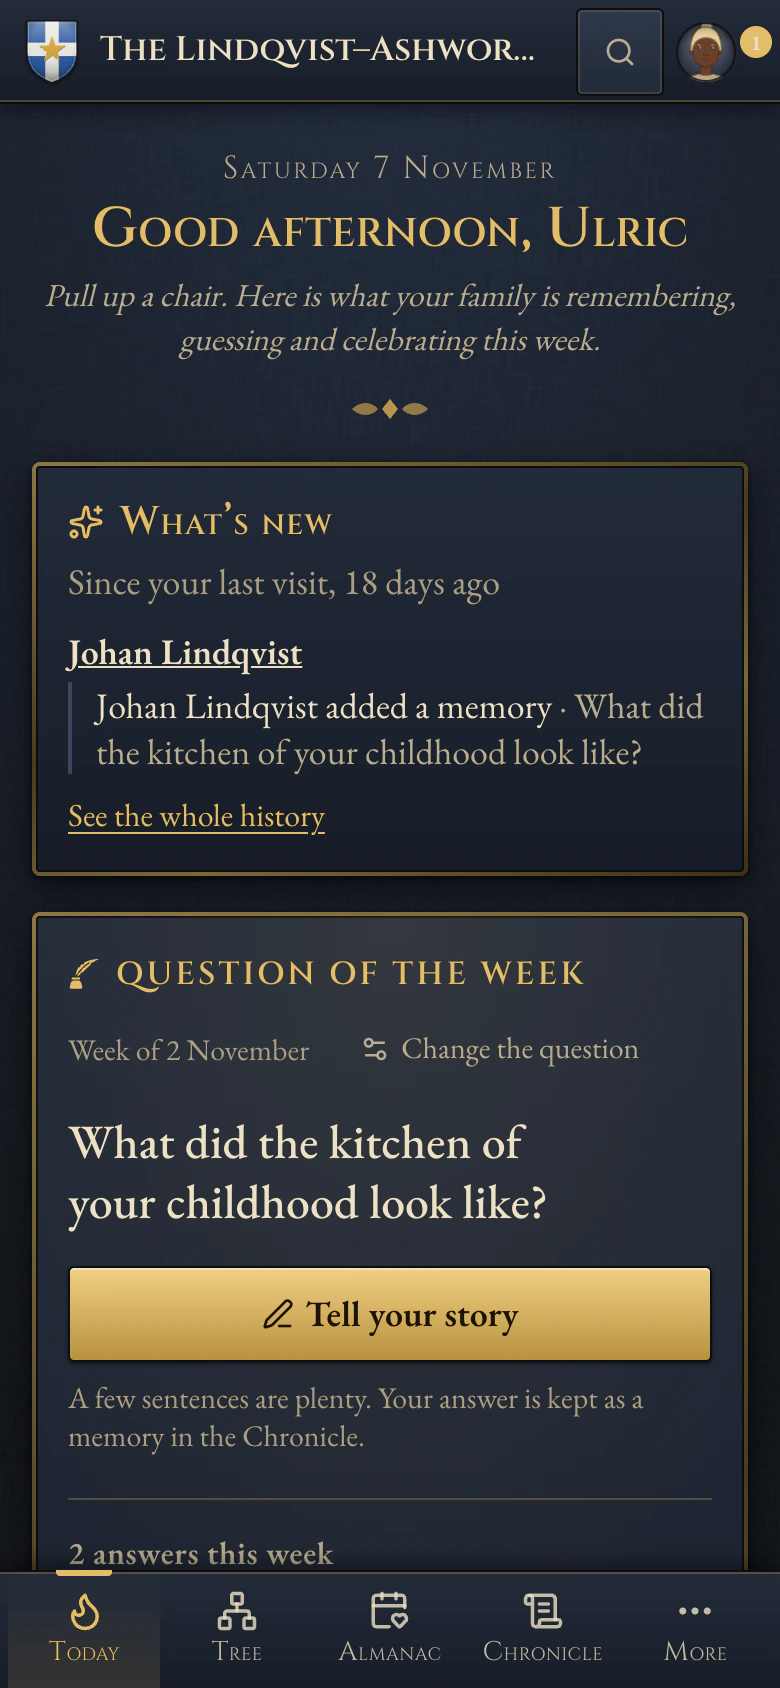
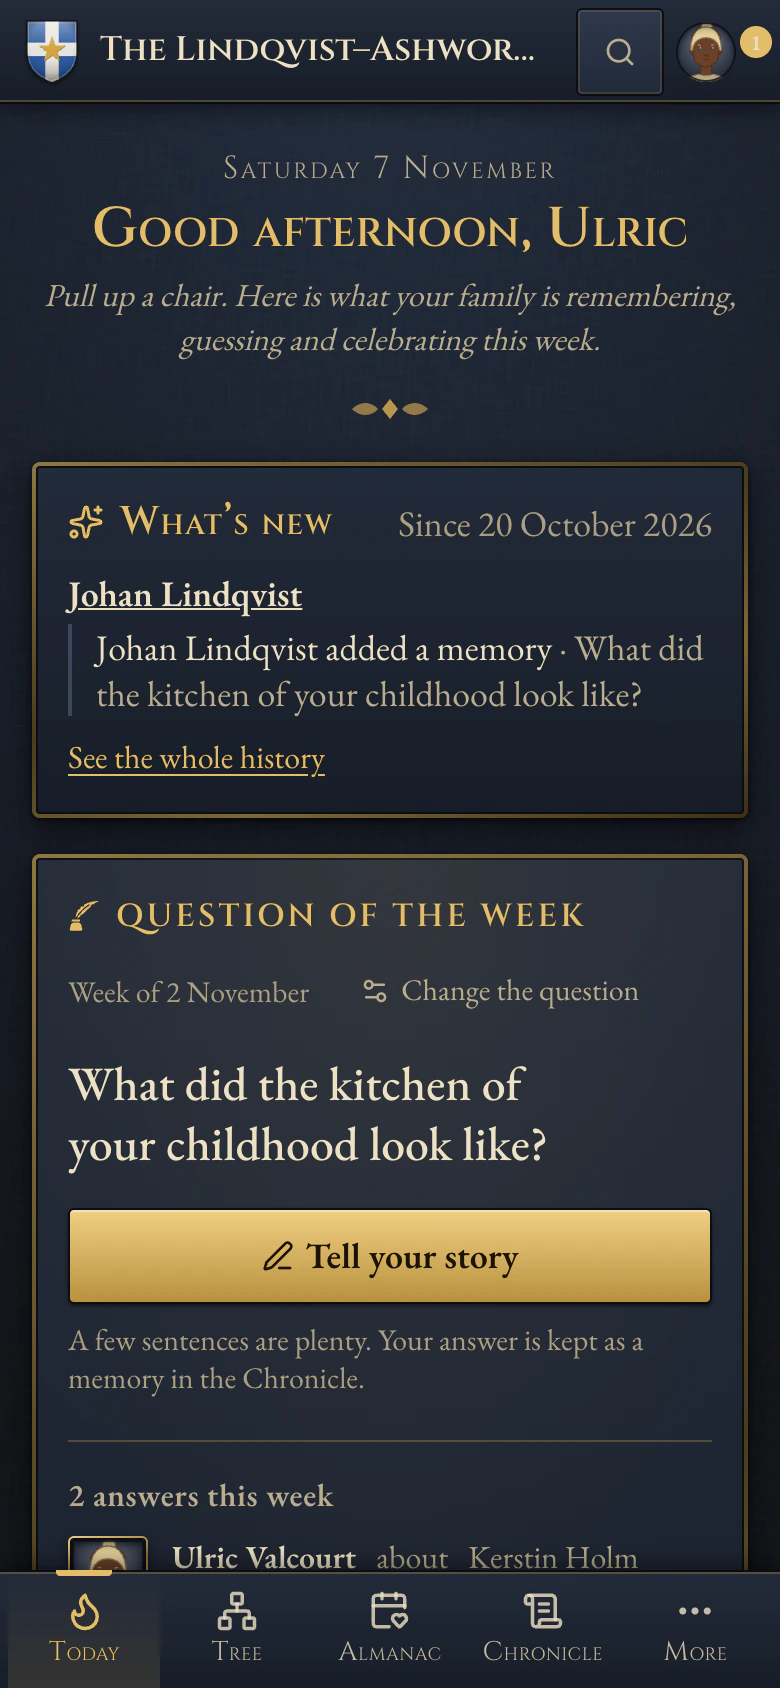
fix(history): What's new says the day its news starts on
"Since your last visit, 18 days ago" was wrong for a reader who had come by without being shown the news: the news then still starts where it did. The date is true in every case. README pictures of Today retaken.

Changed region(s): [[0.0308, 0.3081, 0.9846, 0.955], [0.7077, 0.3081, 0.8, 0.3389], [0.8308, 0.3081, 0.8923, 0.3389]]

diff --git a/src/lib/i18n/areas/history.ts b/src/lib/i18n/areas/history.ts
@@ -41,7 +41,7 @@ export const en = {
   "history.person_all": "See all of this person’s changes",
   "history.guest": "The history is for members of the family.",
   "history.whats_new": "What’s new",
-  "history.since_visit": "Since your last visit, {when}",
+  "history.since_visit": "Since {when}",
   "history.first_visit": "From the last two weeks",
   "history.nothing_new": "Nothing new since your last visit.",
   "history.the_family": "The family",
@@ -224,7 +224,7 @@ export const de: Record<keyof typeof en, string | { one: string; other: string }
   "history.person_all": "Alle Änderungen an dieser Person",
   "history.guest": "Der Verlauf ist für Mitglieder der Familie.",
   "history.whats_new": "Was ist neu",
-  "history.since_visit": "Seit deinem letzten Besuch, {when}",
+  "history.since_visit": "Seit dem {when}",
   "history.first_visit": "Aus den letzten zwei Wochen",
   "history.nothing_new": "Seit deinem letzten Besuch ist nichts Neues dazugekommen.",
   "history.the_family": "Die Familie",
@@ -407,7 +407,7 @@ export const af: Record<keyof typeof en, string | { one: string; other: string }
   "history.person_all": "Sien al die veranderinge aan hierdie persoon",
   "history.guest": "Die geskiedenis is vir lede van die familie.",
   "history.whats_new": "Wat is nuut",
-  "history.since_visit": "Sedert jou laaste besoek, {when}",
+  "history.since_visit": "Sedert {when}",
   "history.first_visit": "Uit die laaste twee weke",
   "history.nothing_new": "Niks nuuts sedert jou laaste besoek nie.",
   "history.the_family": "Die familie",

diff --git a/src/components/today/WhatsNew.tsx b/src/components/today/WhatsNew.tsx
@@ -11,7 +11,7 @@ import { useEffect, useId } from 'react';
 import { lineText } from '~/lib/history-text';
 import { whatsNewQuery } from '~/lib/history.functions';
 import type { WhatsNewReply } from '~/lib/history';
-import { relativeTime, useT, type Key, type Translator } from '~/lib/i18n';
+import { formatDate, useT, type Key, type Translator } from '~/lib/i18n';
 import { useMember } from '~/lib/session';
 import '~/components/history/history.css';
 import './today.css';
@@ -40,7 +40,7 @@ export function WhatsNew({ tree, className = '' }: { tree: string; className?: s
     <section className={`ui-card td-card whats-new ${className}`} aria-labelledby={heading} aria-busy={q.isPending}>
       <div className="td-card-head whats-new-head">
         <h2 className="td-h" id={heading}><Sparkles size={18} aria-hidden /> {t('history.whats_new')}</h2>
-        {news && <span className="subtle">{news.first ? t('history.first_visit') : t('history.since_visit', { when: relativeTime(Date.parse(news.since), t.locale) })}</span>}
+        {news && <span className="subtle">{news.first ? t('history.first_visit') : t('history.since_visit', { when: formatDate(new Date(news.since), t.locale, { day: 'numeric', month: 'long' }) })}</span>}
       </div>
       {q.isPending ? <p className="subtle">{t('history.loading')}</p>
         : q.isError ? <p className="subtle" role="alert">{t('history.failed')}</p>
